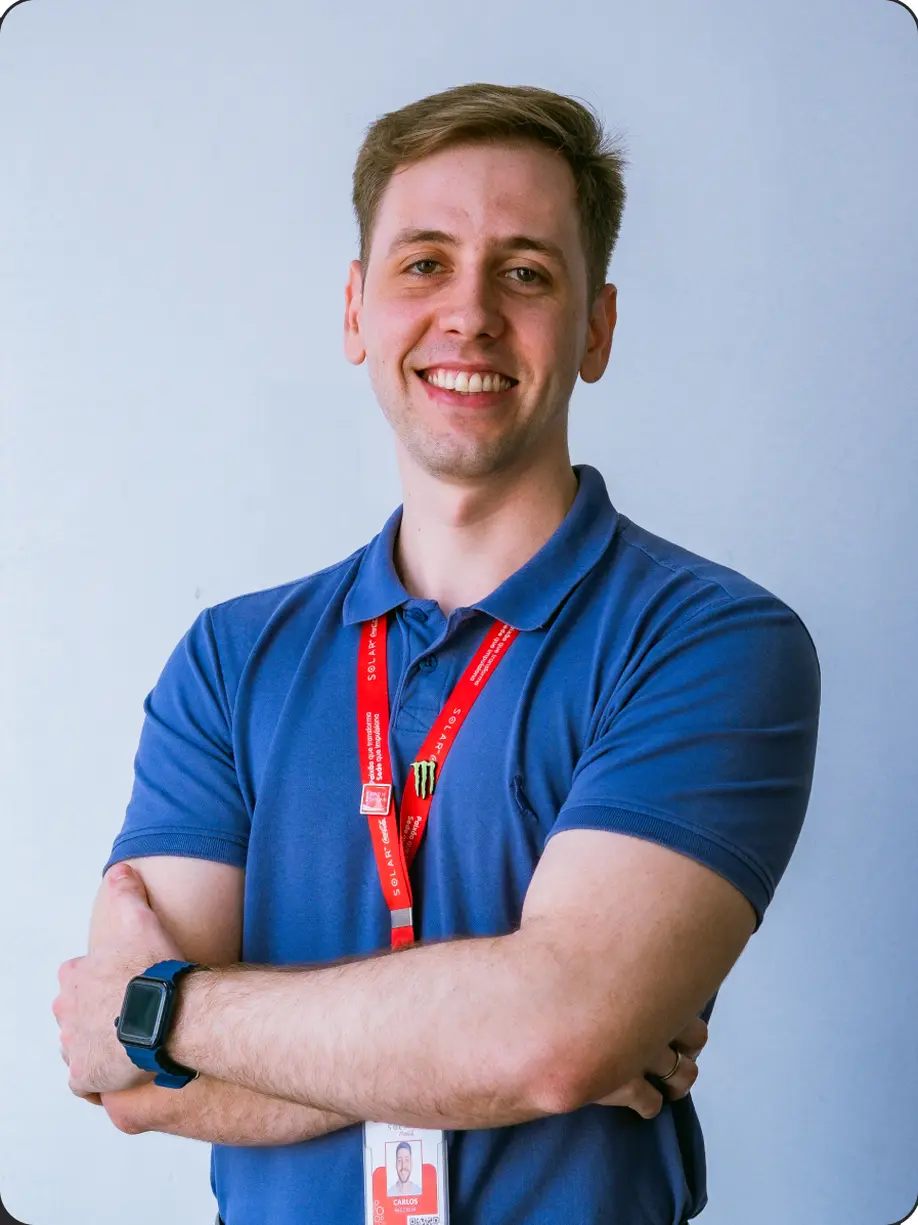
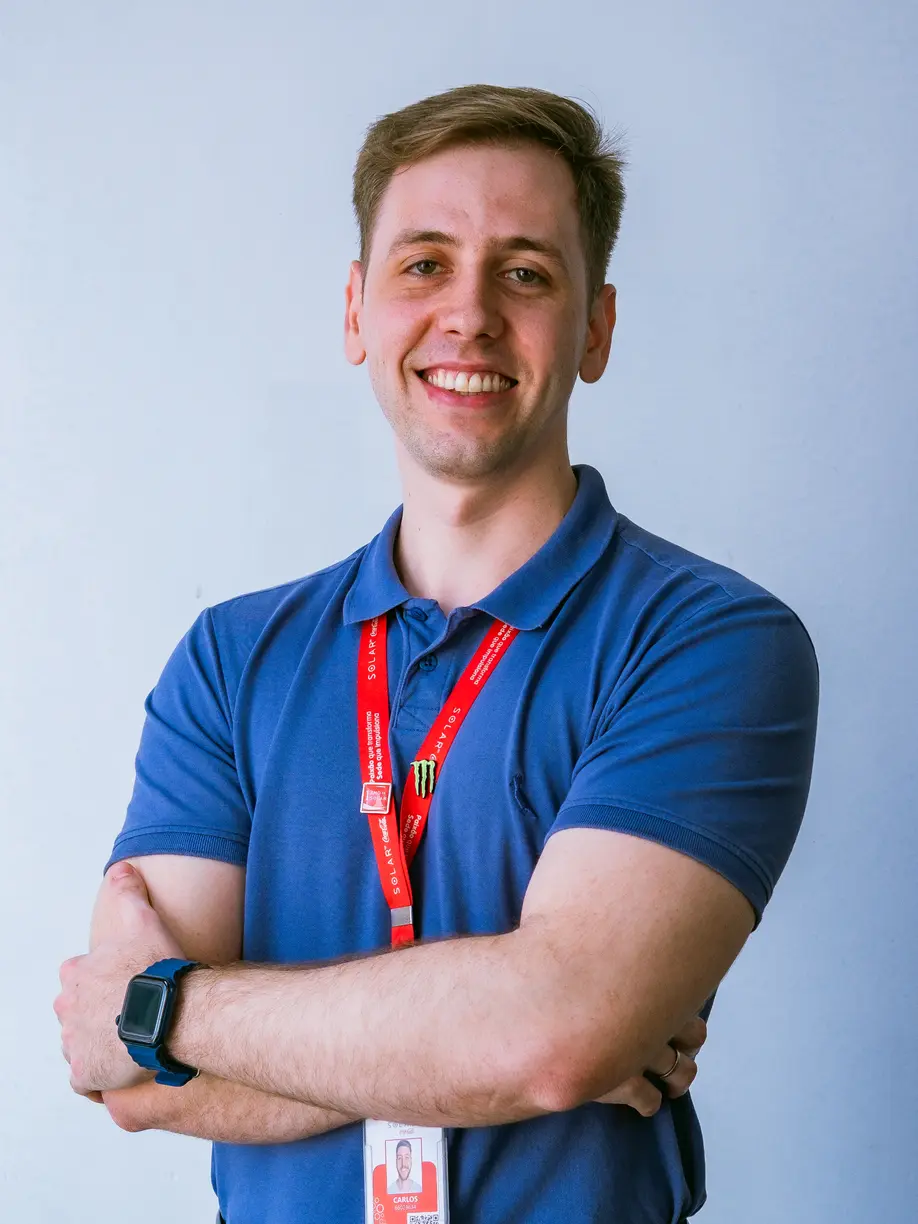
fix: cantos das fotos de depoimentos
O recorte de agosto tirou a moldura das laterais retas, mas não do arco do
canto — recorte retangular não remove curva. Sobrou a borda no arco, e o
raio (que vinha como transparência) virou branco sólido ao salvar sem
alfa. Resultado: cunha branca e um risco escuro dentro da borda do CSS.

As cinco fotos passam a vir da imagem-fonte da Figma (2731x4096, sem
moldura), com o enquadramento reproduzido a partir dos percentuais do
get_design_context. Borda, raio e sombra ficam só no CSS, com os tokens.

Proporção conferida em 0.750 nas cinco, e a diagonal dos cantos agora é
foto — sem branco nem preto.

QA-027 no template.

diff --git a/playbook/09-qa-erros-comuns.md b/playbook/09-qa-erros-comuns.md
@@ -446,4 +446,32 @@ em vez de transparente entrega o problema.
 
 ---
 
-> Próximo ID livre: **QA-027**
+## QA-027 — Recorte retangular não tira canto arredondado do export
+
+**Categoria:** Design intake
+**Sintoma:** depois de recortar a moldura assada (QA-026), a foto ainda mostra
+cunhas claras nos cantos, e por cima delas a borda do CSS — parece "borda
+dupla só nos cantos".
+**Causa:** duas coisas que o recorte não resolve. A borda do nó também percorre
+o **arco** do canto, e nenhum recorte retangular remove uma curva. E o raio do
+Figma vem como transparência: ao salvar em WebP/JPEG sem alfa, o canto vira
+**branco sólido** dentro da imagem.
+**Correção:** parar de usar o export do nó. Pegar a `rawImages` — a foto
+original, retangular, sem moldura — e reproduzir o enquadramento com os
+percentuais que o `get_design_context` informa (`w`, `h`, `left`, `top` sobre o
+slot). Borda, raio e sombra ficam só no CSS, com os tokens.
+
+```python
+larg = pw/100 * SLOT_W;  esq  = -pl/100 * SLOT_W
+alt  = ph/100 * SLOT_H;  topo = -pt/100 * SLOT_H
+k = fonte.width / larg          # do espaço do slot para pixels da fonte
+caixa = (esq*k, topo*k, (esq+SLOT_W)*k, (topo+SLOT_H)*k)
+```
+
+**Como detectar:** ler a diagonal do canto do arquivo. Branco puro (255,255,255)
+ou um pixel escuro isolado antes de começar a foto entrega o problema:
+`Image.open(f).convert('RGB').getpixel((3,3))`.
+
+---
+
+> Próximo ID livre: **QA-028**
